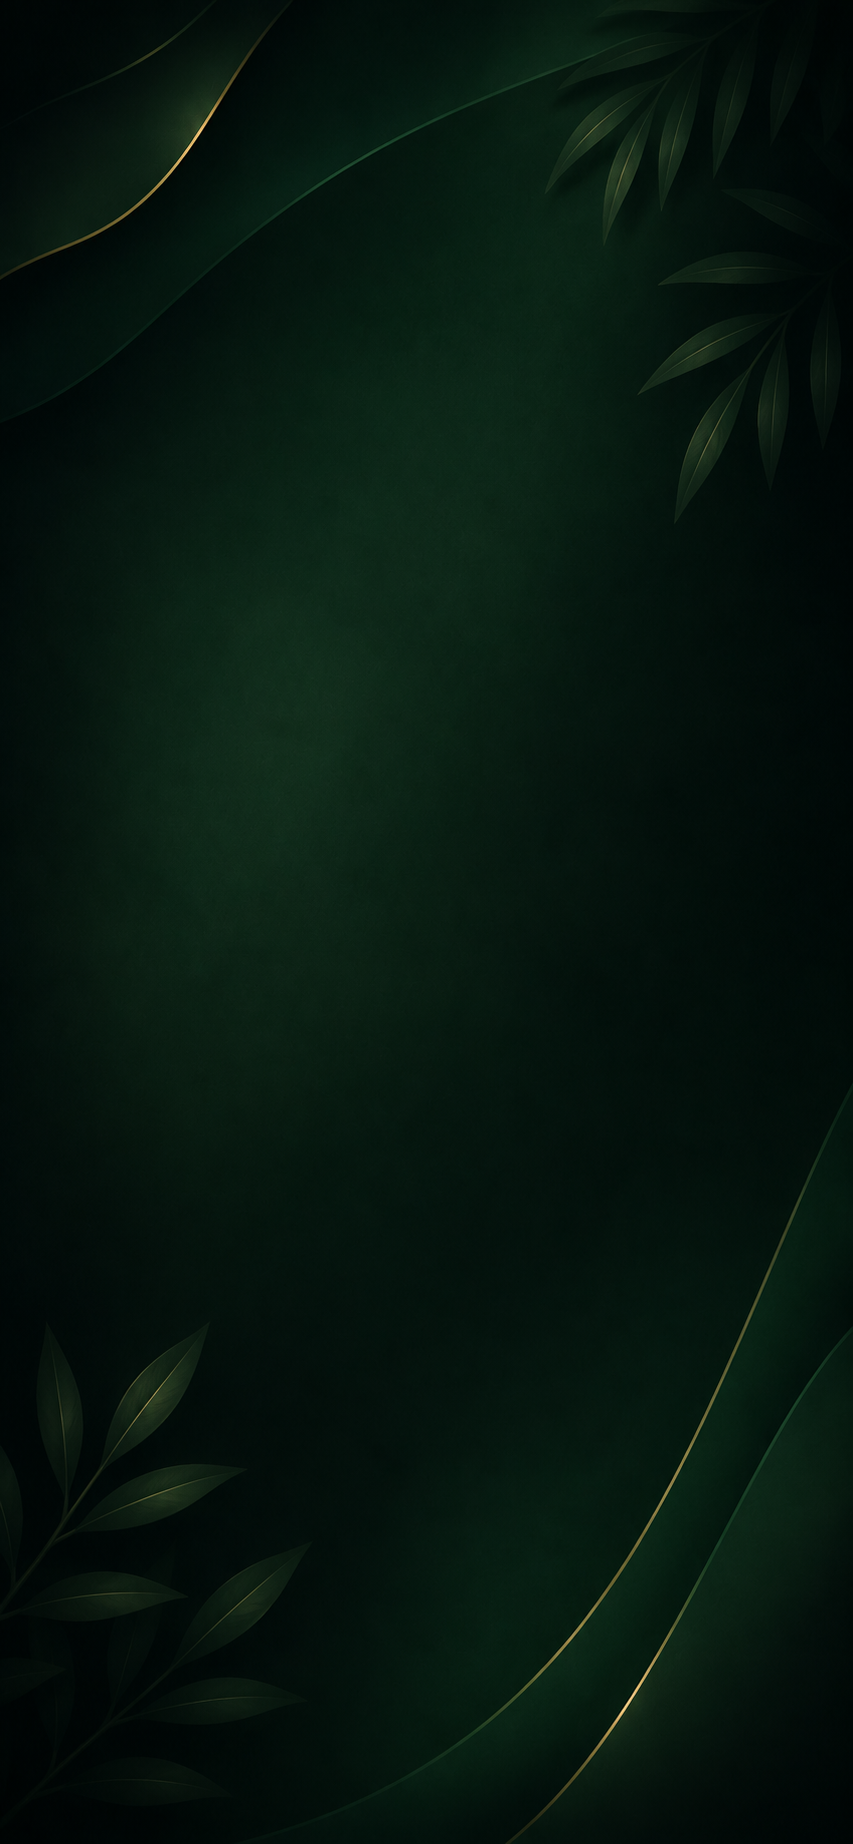
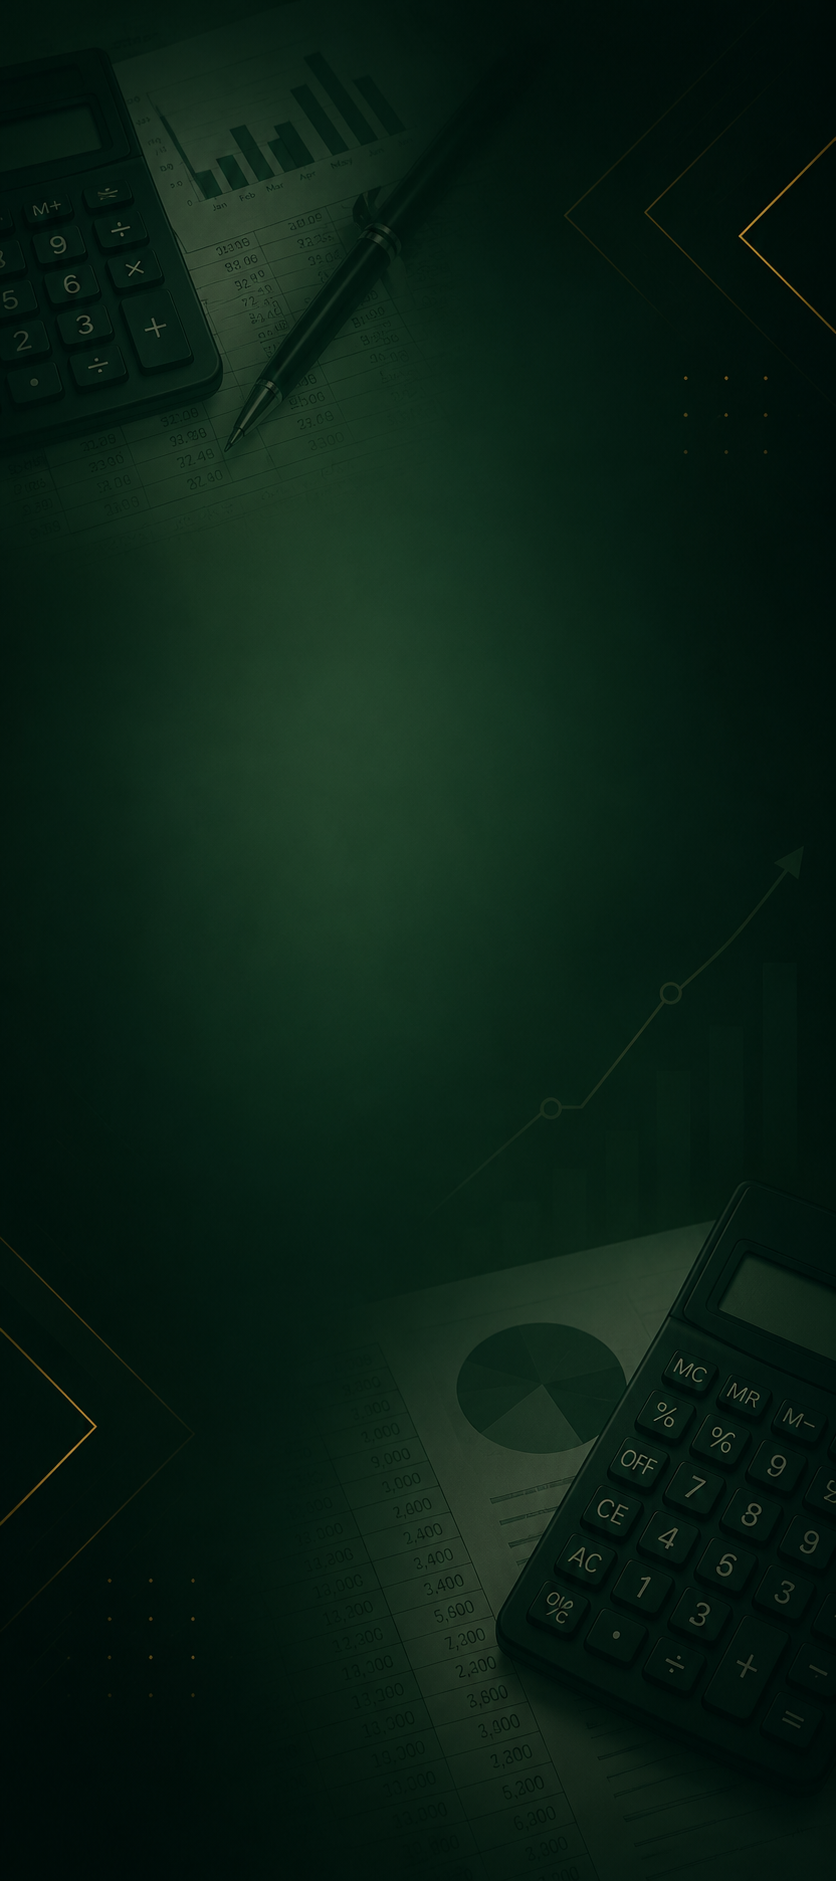
dev 6.1

diff --git a/pages/book-consultation.html b/pages/book-consultation.html
@@ -30,53 +30,7 @@
     </nav>
 
     <main class="container">
-        <div class="intro">
-            <h2>Hi there!</h2>
-            <p>We'd love to hear form you. Whether you have a question about our services or need professional accounting support, we're here to help</p>
-            <p class="instr">Here is our contact information:</p>
-        </div>
-        <div class="contact">
-            <h3>Contact</h3>
-            <div class="contacts-list">
-                <div class="group">
-                    <p>Phone:</p>
-                    <a class="phone" href="tel:+2347088349977">234 708 834 9977</a>
-                </div>
-                <div class="group">
-                    <p>Email:</p>
-                    <a href="mailto:giseinfor@gmail.com" class="email">giseinfor@gmail.com</a>
-                </div>
-                <div class="group">
-                    <p>Business Hours:</p>
-                    <div>Monday - Friday: <span>8:00AM - 5:00PM</span></div>
-                    <div>Saturday: <span>By Appointment</span></div>
-                    <div>Sunday: <span>Closed</span></div>
-                </div>
-            </div>
-        </div>
-
-        <div class="intro form">
-            <p class="instr">Fill the following form to send us a direct message:</p>
-        </div>
-            
-        <form action="https://formsubmit.co/emmanuelavwomakpa@gmail.com" method="POST" class="contact">
-            <input type="text" name="name" placeholder="Full Name" required>
-
-            <input type="email" name="email" placeholder="Email Address" required>
-
-            <input type="tel" name="phone" placeholder="Phone Number" required>
-
-            <select name="services" id="">
-                <option value="Bookeeping">Bookkeeping</option>
-                <option value="Tax planning">Tax planning</option>
-                <option value="Payroll">Payroll</option>
-                <option value="Business Advisory">Business Advisory</option>
-            </select>
-
-            <textarea name="message" id="" placeholder="Your Message" required></textarea>
-
-            <button type="submit">Send Message</button>
-        </form>
+        <h1>JxGrim Dev: Please page is currently under development. Visit contact page to send us a direct message.</h1>
     </main>
 
     <footer>

diff --git a/styles/contact.css b/styles/contact.css
@@ -6,7 +6,7 @@ main.container {
 }
 
 main.container div.intro:first-of-type p.instr {
-    margin-top: 3rem;
+    margin-top: 6rem;
 }
 
 main.container div.contact {
@@ -31,7 +31,9 @@ div.contact div.contacts-list div.group span
     font-weight: 600;
 }
 
-
+div.intro.form {
+    margin-top: 8rem;
+}
 
 form.contact {
     display: grid;
@@ -40,7 +42,7 @@ form.contact {
     max-width: 40rem;
     padding: 2rem;
     border: .1rem solid var(--clr-sub-2);
-    margin-bottom: 4rem;
+    margin-bottom: 8rem;
     margin-top: -2rem;
 }
 
@@ -48,7 +50,7 @@ form.contact input,
 form.contact textarea,
 form.contact select,
 form.contact button[type="submit"] {
-    padding: .5rem 1rem;
+    padding: 1rem 1.5rem;
     border: .1rem solid transparent;
     border-radius: .5rem;
     background-color: var(--clr-sub-2);
@@ -56,8 +58,8 @@ form.contact button[type="submit"] {
     font-size: 1.6rem;
 }
 
-form.contact button {
-    
+form.contact select:hover {
+    cursor: pointer;
 }
 
 form.contact textarea {

diff --git a/pages/insights.html b/pages/insights.html
@@ -90,7 +90,7 @@
             <div class="readyImage"><img src="../assets/images/ready-for-image.jpg" alt="Front Image"></div>
             <h2>Ready for accounting that finally feels clear, simple and in control?</h2>
             <p>Contact us today to schedule a consultation and discover how Gise can help you take control of your finances.</p>
-            <a href="pages/contact.html" class="btn book-consultation">Book a consultation</a>
+            <a href="./contact.html" class="btn book-consultation">Book a consultation</a>
         </section>
     </main>
 

diff --git a/styles/insight-shared.css b/styles/insight-shared.css
@@ -2,12 +2,16 @@ h2.head {
     align-self: flex-start;
 }
 
+section.body {
+    margin-bottom: 8rem;
+}
+
 section.body div.txt div.more {
     margin-top: 4rem;
     font-size: 1.7rem;
     display: grid;
     grid-template-columns: repeat(auto-fit, minmax(30rem, 1fr));
-    gap: 2rem;
+    gap: 3rem;
 }
 
 div.more p {

diff --git a/styles/insights.css b/styles/insights.css
@@ -6,8 +6,9 @@ main.container {
 main.container section.insights {
     display: grid;
     grid-template-columns: repeat(auto-fit, minmax(30rem, 1fr)) !important;
-    gap: 4rem;
+    gap: 6rem;
     margin-top: 3rem;
+    margin-bottom: 8rem;
 }
 
 section.insights div.insight {
